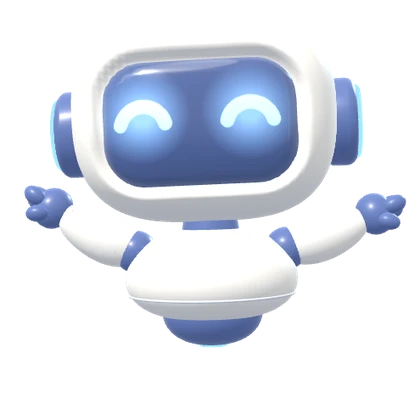
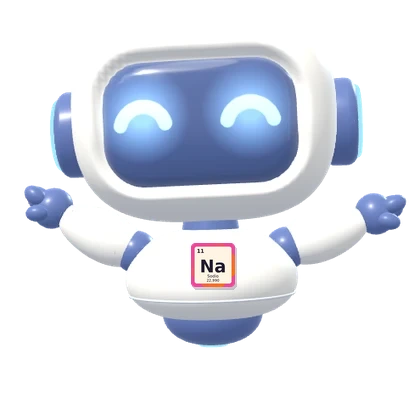
Molí lleva en el pecho el cuadradito del sodio (Na · 11 · Sodio · 22,990) como en la tabla periódica: en el Molí 3D (Aula y Biblioteca) y en todas sus imágenes
Claude-Session: https://claude.ai/code/session_01GLj1XaXL3zPjkcPgbeyeYx

Changed region(s): [[0.4333, 0.5571, 0.5881, 0.7119]]

diff --git a/index.html b/index.html
@@ -175,10 +175,10 @@
   #musicBtn { position: fixed; top: 10px; right: 10px; background: rgba(15,23,42,.7); color: #fff; border: 1px solid rgba(255,255,255,.25); border-radius: 8px; padding: 6px 10px; font-size: 12px; z-index: 5; display: none; }
 </style>
 <link rel="preconnect" href="https://fonts.googleapis.com"><link href="https://fonts.googleapis.com/css2?family=Patrick+Hand&family=Comfortaa:wght@700&display=swap" rel="stylesheet">
-<link rel="stylesheet" href="hojas.css?v=202610152205">
+<link rel="stylesheet" href="hojas.css?v=202610152213">
 <script src="https://cdnjs.cloudflare.com/ajax/libs/three.js/r128/three.min.js"></script>
-<script src="moli3d.js?v=202610152205"></script><script src="datos.js?v=202610152205"></script><script src="docente.js?v=202610152205"></script>
-<script src="hojas.js?v=202610152205"></script><script src="hojas-docente.js?v=202610152205"></script><script src="diplomas.js?v=202610152205"></script><script src="fotocheck.js?v=202610152205"></script><script src="herramientas.js?v=202610152205"></script><script src="remoto.js?v=202610152205"></script><script src="escaner.js?v=202610152205"></script><script src="tarjetas.js?v=202610152205"></script>
+<script src="moli3d.js?v=202610152213"></script><script src="datos.js?v=202610152213"></script><script src="docente.js?v=202610152213"></script>
+<script src="hojas.js?v=202610152213"></script><script src="hojas-docente.js?v=202610152213"></script><script src="diplomas.js?v=202610152213"></script><script src="fotocheck.js?v=202610152213"></script><script src="herramientas.js?v=202610152213"></script><script src="remoto.js?v=202610152213"></script><script src="escaner.js?v=202610152213"></script><script src="tarjetas.js?v=202610152213"></script>
 <style id="splashCss">
   /* ---- pantalla de carga (como la de Molí 1): MOLÍ en letras grandes y Molí 3D trayendo el número 2 ---- */
   #splash { position: fixed; inset: 0; z-index: 200; display: flex; flex-direction: column; align-items: center; justify-content: center; overflow: hidden;
@@ -2491,7 +2491,7 @@ window.SPLASH.then(function arrancar() {                                        
 window.G = { renderer, P, update, doors, colliders, floors, camera, renderer, scene, toggle, nearestDoor, keys, joy, spinners, rockets, TOUR, STOPS, go, moli, MO };
 Object.assign(window.G, { moliIr, spotCerca, decir, callar, sheet, portrait });   // (lo usan el control remoto y sus animaciones)
 </script>
-<script src="revista.js?v=202610152205"></script><script src="corcho.js?v=202610152205"></script><script src="mando.js?v=202610152205"></script><script src="anuncio.js?v=202610152205"></script><script src="muro.js?v=202610152205"></script>
-<script src="archivos.js?v=202610152205"></script><script src="editor.js?v=202610152205"></script>
+<script src="revista.js?v=202610152213"></script><script src="corcho.js?v=202610152213"></script><script src="mando.js?v=202610152213"></script><script src="anuncio.js?v=202610152213"></script><script src="muro.js?v=202610152213"></script>
+<script src="archivos.js?v=202610152213"></script><script src="editor.js?v=202610152213"></script>
 </body>
 </html>

diff --git a/moli3d.js b/moli3d.js
@@ -171,6 +171,19 @@ function crearMoli(THREE, opt = {}) {
   part(new THREE.TorusGeometry(0.06, 0.013, 10, 48), LED, body, [0, 0.215, 0], [Math.PI / 2, 0, 0]);
   const baseGlow = glow(body, [0, 0.18, 0], 0.34, 0.6);
   [-1, 1].forEach(sx => part(new THREE.SphereGeometry(0.1, 24, 18), NAVY, body, [0.35 * sx, 0.655, 0.01]));
+  // ---- en el pecho: el cuadradito del sodio, como en la tabla periódica (Na · 11 · 22,990) ----
+  const rr = (g, x, y, w, h, r) => { if (g.roundRect) return g.roundRect(x, y, w, h, r); g.rect(x, y, w, h); };   // (navegadores antiguos: esquinas rectas)
+  const naTex = canvasTex(256, 256, (g, w, h) => {
+    const gr = g.createLinearGradient(0, 0, w, h); gr.addColorStop(0, '#ec4899'); gr.addColorStop(1, '#f97316');
+    g.fillStyle = gr; g.beginPath(); rr(g, 4, 4, w - 8, h - 8, 26); g.fill();
+    g.fillStyle = '#fff4e2'; g.beginPath(); rr(g, 26, 26, w - 52, h - 52, 14); g.fill();
+    g.fillStyle = '#1e1b2e'; g.textBaseline = 'alphabetic';
+    g.font = '700 30px Arial, sans-serif'; g.textAlign = 'left'; g.fillText('11', 42, 66);
+    g.font = '800 104px Arial, sans-serif'; g.textAlign = 'center'; g.fillText('Na', w / 2, 158);
+    g.font = '600 24px Arial, sans-serif'; g.fillText('Sodio', w / 2, 192); g.fillText('22,990', w / 2, 220); });
+  { const S = 0.17, geo = new THREE.PlaneGeometry(S, S, 12, 12), q = geo.attributes.position, yc = 0.585;
+    for (let i = 0; i < q.count; i++) { const x = q.getX(i), y = yc + q.getY(i), R = torsoR(y); q.setXYZ(i, x, y, Math.sqrt(Math.max(0, R * R - x * x)) + 0.004); }   // pegadito a la pancita
+    geo.computeVertexNormals(); const na = new THREE.Mesh(geo, new THREE.MeshBasicMaterial({ map: naTex, transparent: true })); na.renderOrder = 2; body.add(na); }
   // ---- bracitos (frijolito blanco) y manitos azul noche: palma, 3 deditos y pulgar ----
   const armGeo = lathe(k => { const y = -0.39 + 0.44 * k; return [0.135 * Math.pow(Math.sin(Math.PI * k), 0.4) * (0.8 + 0.2 * k), y]; }, 28, 36);   // brazo gordito (frijol)
   const arms = [-1, 1].map(sx => {

diff --git a/biblioteca.html b/biblioteca.html
@@ -151,8 +151,8 @@
 <div id="mGlobo" role="dialog" aria-label="Molí te ayuda a buscar"></div>
 <div id="libro"></div>
 <script src="https://cdnjs.cloudflare.com/ajax/libs/three.js/r128/three.min.js"></script>
-<script src="moli3d.js?v=202610152205"></script>
-<script src="pdftrabajo.js?v=202610152205"></script>
+<script src="moli3d.js?v=202610152213"></script>
+<script src="pdftrabajo.js?v=202610152213"></script>
 <script>
 (function () {
 'use strict';
@@ -822,6 +822,6 @@ addEventListener('pointerup', e => { if (!MOLI || modo === 'intro' || $('#libro'
 Promise.race([listo, wait(2500)]).then(() => { aplicarTX(); try { renderer.compile(scene, camera); } catch (e) {} cargarTX(); cargarTrabajos(); requestAnimationFrame(frame); intro(); });
 })();
 </script>
-<script src="mando.js?v=202610152205"></script>
+<script src="mando.js?v=202610152213"></script>
 </body>
 </html>

diff --git a/repositorio.html b/repositorio.html
@@ -1389,6 +1389,6 @@ addEventListener('keydown', e => { if (e.key === 'Escape' && !$('#modal').hidden
   if ((ROLE.t || ROLE.r) && TAB !== 'bandeja' && TAB !== 'similitud') { try { const a = await staffTok(); if (a) { CACHE.pend = await query('pend', a, ['st']); setCount(CACHE.pend.length); CACHE.pend = null; } } catch (e) {} }
 })();
 </script>
-<script src="pdftrabajo.js?v=202610152205"></script><script src="archivos.js?v=202610152205"></script><script src="mando.js?v=202610152205"></script>
+<script src="pdftrabajo.js?v=202610152213"></script><script src="archivos.js?v=202610152213"></script><script src="mando.js?v=202610152213"></script>
 </body>
 </html>
